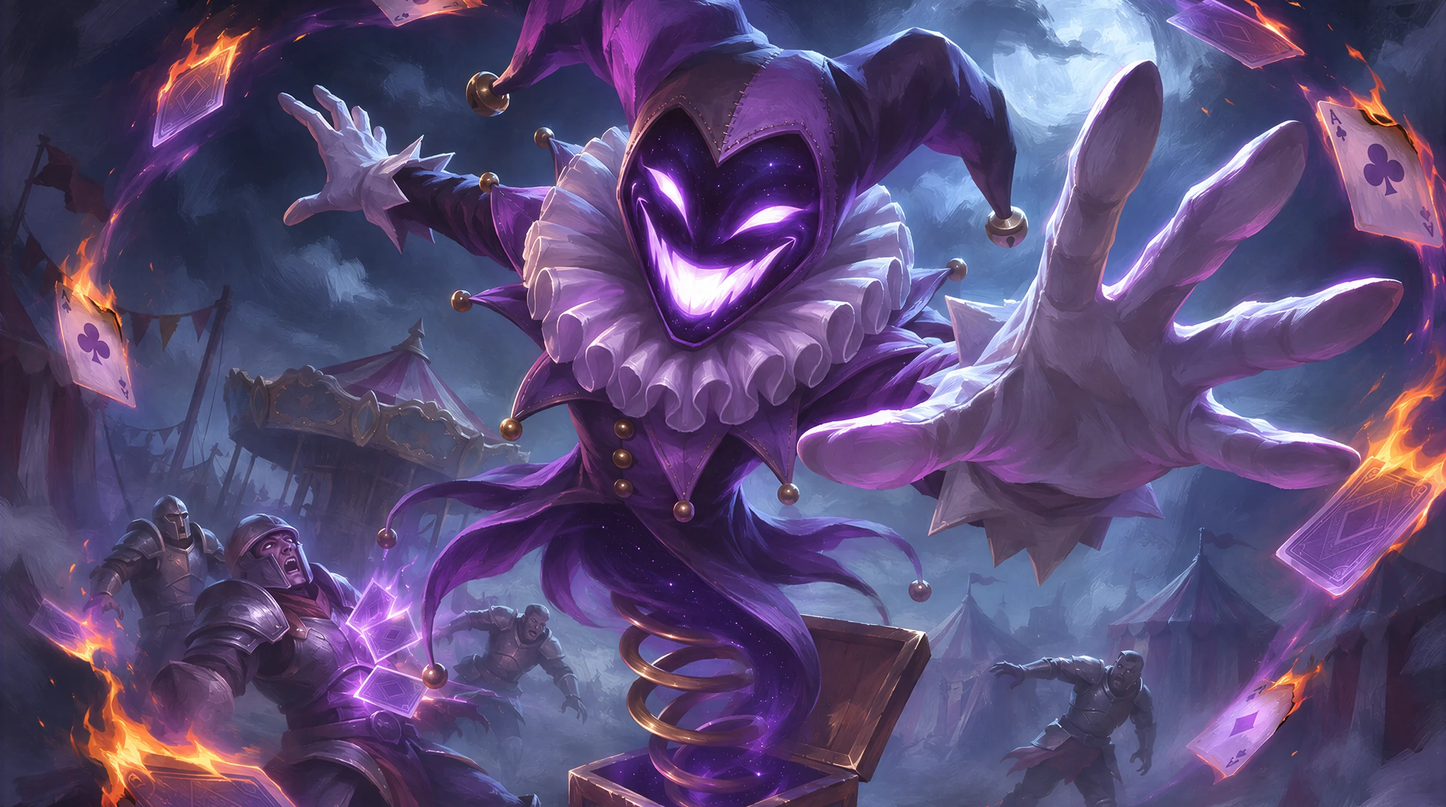
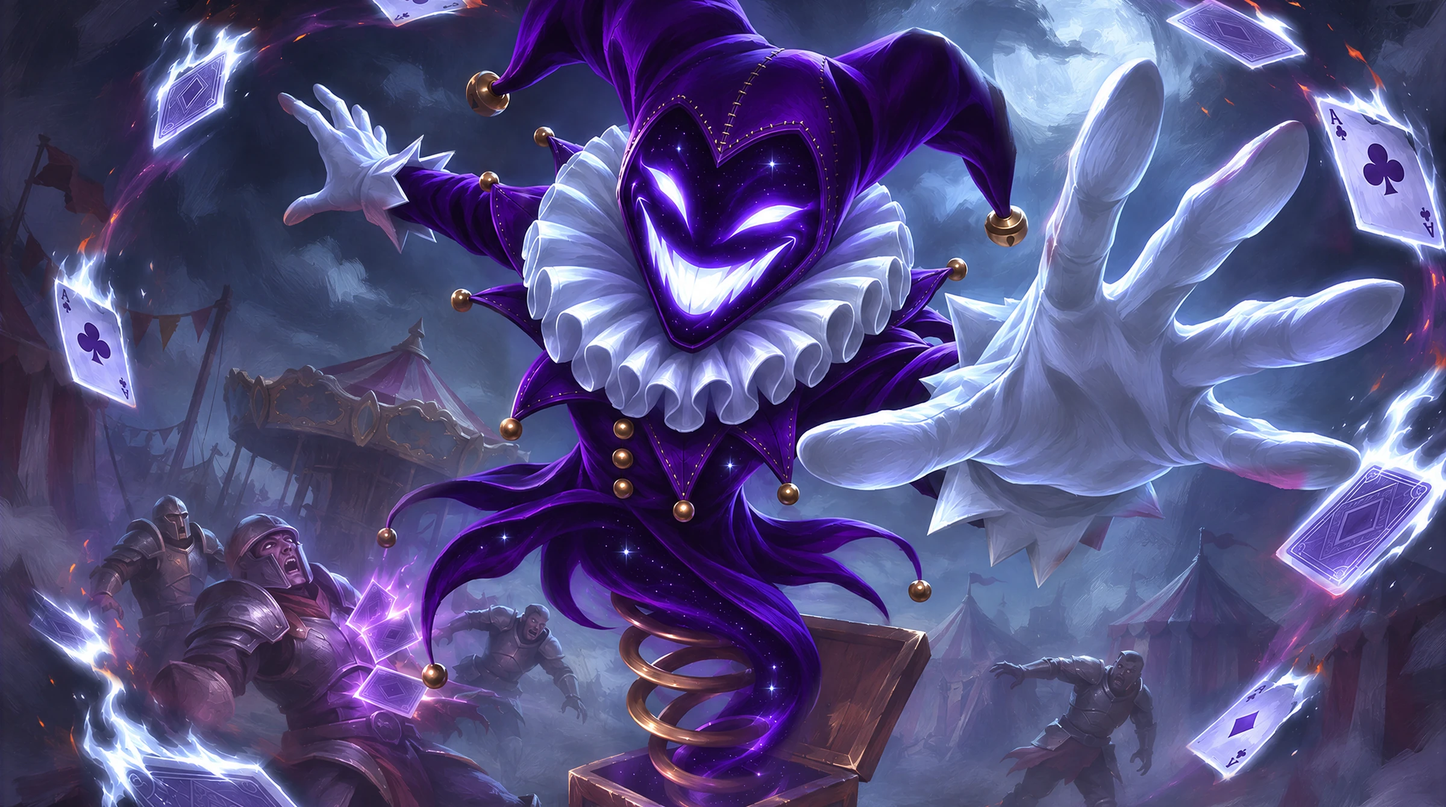
Motley splash: colour2 A starlight (owner pick 11-15)
Claude-Session: https://claude.ai/code/session_01Fa986kEoxoUbsf7VZzVwQa

diff --git a/presskit.html b/presskit.html
@@ -101,19 +101,19 @@
         </div>
         <h2>Hunter art</h2>
         <div class="pk-grid">
-          <a href="assets/img/hunters/lisette-2400.webp?v=2026-11-15e18" target="_blank"><img src="assets/img/hunters/lisette-960.webp?v=2026-11-15e18" alt="Lace splash art" loading="lazy"><span class="pk-cap">Lace</span></a>
-          <a href="assets/img/hunters/breaker-2400.webp?v=2026-11-15e18" target="_blank"><img src="assets/img/hunters/breaker-960.webp?v=2026-11-15e18" alt="Albert splash art" loading="lazy"><span class="pk-cap">Albert</span></a>
-          <a href="assets/img/hunters/vex-2400.webp?v=2026-11-15e18" target="_blank"><img src="assets/img/hunters/vex-960.webp?v=2026-11-15e18" alt="Vex splash art" loading="lazy"><span class="pk-cap">Vex</span></a>
-          <a href="assets/img/hunters/kael-2400.webp?v=2026-11-15e18" target="_blank"><img src="assets/img/hunters/kael-960.webp?v=2026-11-15e18" alt="Kael splash art" loading="lazy"><span class="pk-cap">Kael</span></a>
-          <a href="assets/img/hunters/claire-2400.webp?v=2026-11-15e18" target="_blank"><img src="assets/img/hunters/claire-960.webp?v=2026-11-15e18" alt="Neve splash art" loading="lazy"><span class="pk-cap">Neve</span></a>
-          <a href="assets/img/hunters/cinder-2400.webp?v=2026-11-15e18" target="_blank"><img src="assets/img/hunters/cinder-960.webp?v=2026-11-15e18" alt="Cinder splash art" loading="lazy"><span class="pk-cap">Cinder</span></a>
-          <a href="assets/img/hunters/tarek-2400.webp?v=2026-11-15e18" target="_blank"><img src="assets/img/hunters/tarek-960.webp?v=2026-11-15e18" alt="Tenzo splash art" loading="lazy"><span class="pk-cap">Tenzo</span></a>
-          <a href="assets/img/hunters/ryzz-2400.webp?v=2026-11-15e18" target="_blank"><img src="assets/img/hunters/ryzz-960.webp?v=2026-11-15e18" alt="Sparkle splash art" loading="lazy"><span class="pk-cap">Sparkle</span></a>
-          <a href="assets/img/hunters/grimble-2400.webp?v=2026-11-15e18" target="_blank"><img src="assets/img/hunters/grimble-960.webp?v=2026-11-15e18" alt="Grimble splash art" loading="lazy"><span class="pk-cap">Grimble</span></a>
-          <a href="assets/img/hunters/pip-2400.webp?v=2026-11-15e18" target="_blank"><img src="assets/img/hunters/pip-960.webp?v=2026-11-15e18" alt="Meeko splash art" loading="lazy"><span class="pk-cap">Meeko</span></a>
-          <a href="assets/img/hunters/sable-2400.webp?v=2026-11-15e18" target="_blank"><img src="assets/img/hunters/sable-960.webp?v=2026-11-15e18" alt="Sable splash art" loading="lazy"><span class="pk-cap">Sable</span></a>
-          <a href="assets/img/hunters/gill-2400.webp?v=2026-11-15e18" target="_blank"><img src="assets/img/hunters/gill-960.webp?v=2026-11-15e18" alt="Gill splash art" loading="lazy"><span class="pk-cap">Gill</span></a>
-          <a href="assets/img/hunters/motley-2400.webp?v=2026-11-15e18" target="_blank"><img src="assets/img/hunters/motley-960.webp?v=2026-11-15e18" alt="Motley splash art" loading="lazy"><span class="pk-cap">Motley</span></a>
+          <a href="assets/img/hunters/lisette-2400.webp?v=2026-11-15e19" target="_blank"><img src="assets/img/hunters/lisette-960.webp?v=2026-11-15e19" alt="Lace splash art" loading="lazy"><span class="pk-cap">Lace</span></a>
+          <a href="assets/img/hunters/breaker-2400.webp?v=2026-11-15e19" target="_blank"><img src="assets/img/hunters/breaker-960.webp?v=2026-11-15e19" alt="Albert splash art" loading="lazy"><span class="pk-cap">Albert</span></a>
+          <a href="assets/img/hunters/vex-2400.webp?v=2026-11-15e19" target="_blank"><img src="assets/img/hunters/vex-960.webp?v=2026-11-15e19" alt="Vex splash art" loading="lazy"><span class="pk-cap">Vex</span></a>
+          <a href="assets/img/hunters/kael-2400.webp?v=2026-11-15e19" target="_blank"><img src="assets/img/hunters/kael-960.webp?v=2026-11-15e19" alt="Kael splash art" loading="lazy"><span class="pk-cap">Kael</span></a>
+          <a href="assets/img/hunters/claire-2400.webp?v=2026-11-15e19" target="_blank"><img src="assets/img/hunters/claire-960.webp?v=2026-11-15e19" alt="Neve splash art" loading="lazy"><span class="pk-cap">Neve</span></a>
+          <a href="assets/img/hunters/cinder-2400.webp?v=2026-11-15e19" target="_blank"><img src="assets/img/hunters/cinder-960.webp?v=2026-11-15e19" alt="Cinder splash art" loading="lazy"><span class="pk-cap">Cinder</span></a>
+          <a href="assets/img/hunters/tarek-2400.webp?v=2026-11-15e19" target="_blank"><img src="assets/img/hunters/tarek-960.webp?v=2026-11-15e19" alt="Tenzo splash art" loading="lazy"><span class="pk-cap">Tenzo</span></a>
+          <a href="assets/img/hunters/ryzz-2400.webp?v=2026-11-15e19" target="_blank"><img src="assets/img/hunters/ryzz-960.webp?v=2026-11-15e19" alt="Sparkle splash art" loading="lazy"><span class="pk-cap">Sparkle</span></a>
+          <a href="assets/img/hunters/grimble-2400.webp?v=2026-11-15e19" target="_blank"><img src="assets/img/hunters/grimble-960.webp?v=2026-11-15e19" alt="Grimble splash art" loading="lazy"><span class="pk-cap">Grimble</span></a>
+          <a href="assets/img/hunters/pip-2400.webp?v=2026-11-15e19" target="_blank"><img src="assets/img/hunters/pip-960.webp?v=2026-11-15e19" alt="Meeko splash art" loading="lazy"><span class="pk-cap">Meeko</span></a>
+          <a href="assets/img/hunters/sable-2400.webp?v=2026-11-15e19" target="_blank"><img src="assets/img/hunters/sable-960.webp?v=2026-11-15e19" alt="Sable splash art" loading="lazy"><span class="pk-cap">Sable</span></a>
+          <a href="assets/img/hunters/gill-2400.webp?v=2026-11-15e19" target="_blank"><img src="assets/img/hunters/gill-960.webp?v=2026-11-15e19" alt="Gill splash art" loading="lazy"><span class="pk-cap">Gill</span></a>
+          <a href="assets/img/hunters/motley-2400.webp?v=2026-11-15e19" target="_blank"><img src="assets/img/hunters/motley-960.webp?v=2026-11-15e19" alt="Motley splash art" loading="lazy"><span class="pk-cap">Motley</span></a>
         </div>
         <h2>Boki art</h2>
         <div class="pk-grid pk-grid-boki" id="pk-boki" hidden></div>
@@ -151,7 +151,7 @@
   <div class="consent-b"><button class="btn btn-glass btn-sm" type="button" data-no>Decline</button><button class="btn btn-solid btn-sm" type="button" data-yes>Accept</button></div>
 </div>
 
-<script src="assets/site.js?v=301"></script>
+<script src="assets/site.js?v=302"></script>
 <script src="assets/signup.js?v=1"></script>
 <script src="/assets/topbar.js?v=6" defer></script>
 </body>

diff --git a/index.html b/index.html
@@ -170,7 +170,7 @@
       <button class="bk-arrow prev h-arrow" type="button" id="h-prev" aria-label="Previous Hunter"><svg viewBox="0 0 24 24" aria-hidden="true"><path d="M15 5l-7 7 7 7" fill="none" stroke="currentColor" stroke-width="2.6" stroke-linecap="round" stroke-linejoin="round"/></svg></button>
       <button class="bk-arrow next h-arrow" type="button" id="h-next" aria-label="Next Hunter"><svg viewBox="0 0 24 24" aria-hidden="true"><path d="M9 5l7 7-7 7" fill="none" stroke="currentColor" stroke-width="2.6" stroke-linecap="round" stroke-linejoin="round"/></svg></button>
       <div class="bk-count h-count"><b id="h-n">01</b> / <span>13</span></div>
-      <div class="shot"><img data-zoom id="h-art" src="assets/img/hunters/vex-1600.webp?v=2026-11-15e18" srcset="assets/img/hunters/vex-960.webp?v=2026-11-15e18 960w, assets/img/hunters/vex-1600.webp?v=2026-11-15e18 1600w, assets/img/hunters/vex-2400.webp?v=2026-11-15e18 2400w" sizes="(max-width: 720px) 260vw, (max-width: 1000px) and (orientation: portrait) 150vw, (max-width: 1280px) 100vw, 1240px" alt="Vex, the Hired Gun" loading="lazy"><button class="h-expand" type="button" id="h-expand" aria-label="View full art"><svg viewBox="0 0 24 24" fill="none" stroke="currentColor" stroke-width="2.2" stroke-linecap="round" stroke-linejoin="round" aria-hidden="true"><path d="M14 4h6v6M10 20H4v-6M20 4l-6.5 6.5M4 20l6.5-6.5"/></svg></button></div>
+      <div class="shot"><img data-zoom id="h-art" src="assets/img/hunters/vex-1600.webp?v=2026-11-15e19" srcset="assets/img/hunters/vex-960.webp?v=2026-11-15e19 960w, assets/img/hunters/vex-1600.webp?v=2026-11-15e19 1600w, assets/img/hunters/vex-2400.webp?v=2026-11-15e19 2400w" sizes="(max-width: 720px) 260vw, (max-width: 1000px) and (orientation: portrait) 150vw, (max-width: 1280px) 100vw, 1240px" alt="Vex, the Hired Gun" loading="lazy"><button class="h-expand" type="button" id="h-expand" aria-label="View full art"><svg viewBox="0 0 24 24" fill="none" stroke="currentColor" stroke-width="2.2" stroke-linecap="round" stroke-linejoin="round" aria-hidden="true"><path d="M14 4h6v6M10 20H4v-6M20 4l-6.5 6.5M4 20l6.5-6.5"/></svg></button></div>
       <div class="info" aria-live="polite">
         <div class="role" id="h-role" data-role="Gunslinger">Gunslinger</div>
         <h3 id="h-name">Vex</h3>
@@ -289,7 +289,7 @@
   <symbol id="i-play" viewBox="0 0 24 24"><path d="M7 4.5v15a1 1 0 0 0 1.5.86l12.4-7.5a1 1 0 0 0 0-1.72L8.5 3.64A1 1 0 0 0 7 4.5Z"/></symbol>
 </svg>
 
-<script src="assets/site.js?v=301"></script>
+<script src="assets/site.js?v=302"></script>
 <script src="assets/signup.js?v=1"></script>
 <script src="/assets/topbar.js?v=6" defer></script>
 </body>

diff --git a/devlog.html b/devlog.html
@@ -62,7 +62,7 @@
       <article class="dl-post" id="hunter-kits">
         <time datetime="2026-11-09">November 9, 2026</time>
         <h2>Hunter kits are on the site</h2>
-        <a class="dl-img" href="index.html#hunters"><img src="assets/img/hunters/breaker-1600.webp?v=2026-11-15e18" width="1600" height="893" alt="Albert, the Barnacle Knight" loading="lazy"></a>
+        <a class="dl-img" href="index.html#hunters"><img src="assets/img/hunters/breaker-1600.webp?v=2026-11-15e19" width="1600" height="893" alt="Albert, the Barnacle Knight" loading="lazy"></a>
         <p>Tap Abilities on any Hunter to see their full kit: weapon, passive, dash, both abilities and their ultimate.</p>
         <p>The kits come straight from the game files, so they stay current as we tune each Hunter.</p>
       </article>
@@ -90,7 +90,7 @@
   <div class="consent-b"><button class="btn btn-glass btn-sm" type="button" data-no>Decline</button><button class="btn btn-solid btn-sm" type="button" data-yes>Accept</button></div>
 </div>
 
-<script src="assets/site.js?v=301"></script>
+<script src="assets/site.js?v=302"></script>
 <script src="assets/signup.js?v=1"></script>
 <script src="/assets/topbar.js?v=6" defer></script>
 </body>

diff --git a/assets/site.js b/assets/site.js
@@ -192,7 +192,7 @@ if (heroIn && !calm) {
 
 /* ---------- Hunters: pick a Mask ---------- */
 // [id, name, title, has an up-to-date in-game model, role (from the kit's role line in the game)]
-const ART_V = "2026-11-15e18"; // bump when a Hunter splash changes
+const ART_V = "2026-11-15e19"; // bump when a Hunter splash changes
 // order 11-15 owner (r3: Grimble before Cinder): Kael Lace Albert = kingsguard trio (Cinder is not kingsguard); Sable last so Gill splits the purples (Motley/Sable)
 const HUNTERS = [
   ["vex", "Vex", "The Hired Gun", true, "Gunslinger"],

diff --git a/privacy.html b/privacy.html
@@ -99,7 +99,7 @@
   <div class="consent-b"><button class="btn btn-glass btn-sm" type="button" data-no>Decline</button><button class="btn btn-solid btn-sm" type="button" data-yes>Accept</button></div>
 </div>
 
-<script src="assets/site.js?v=301"></script>
+<script src="assets/site.js?v=302"></script>
 <script src="assets/signup.js?v=1"></script>
 <script src="/assets/topbar.js?v=6" defer></script>
 </body>
